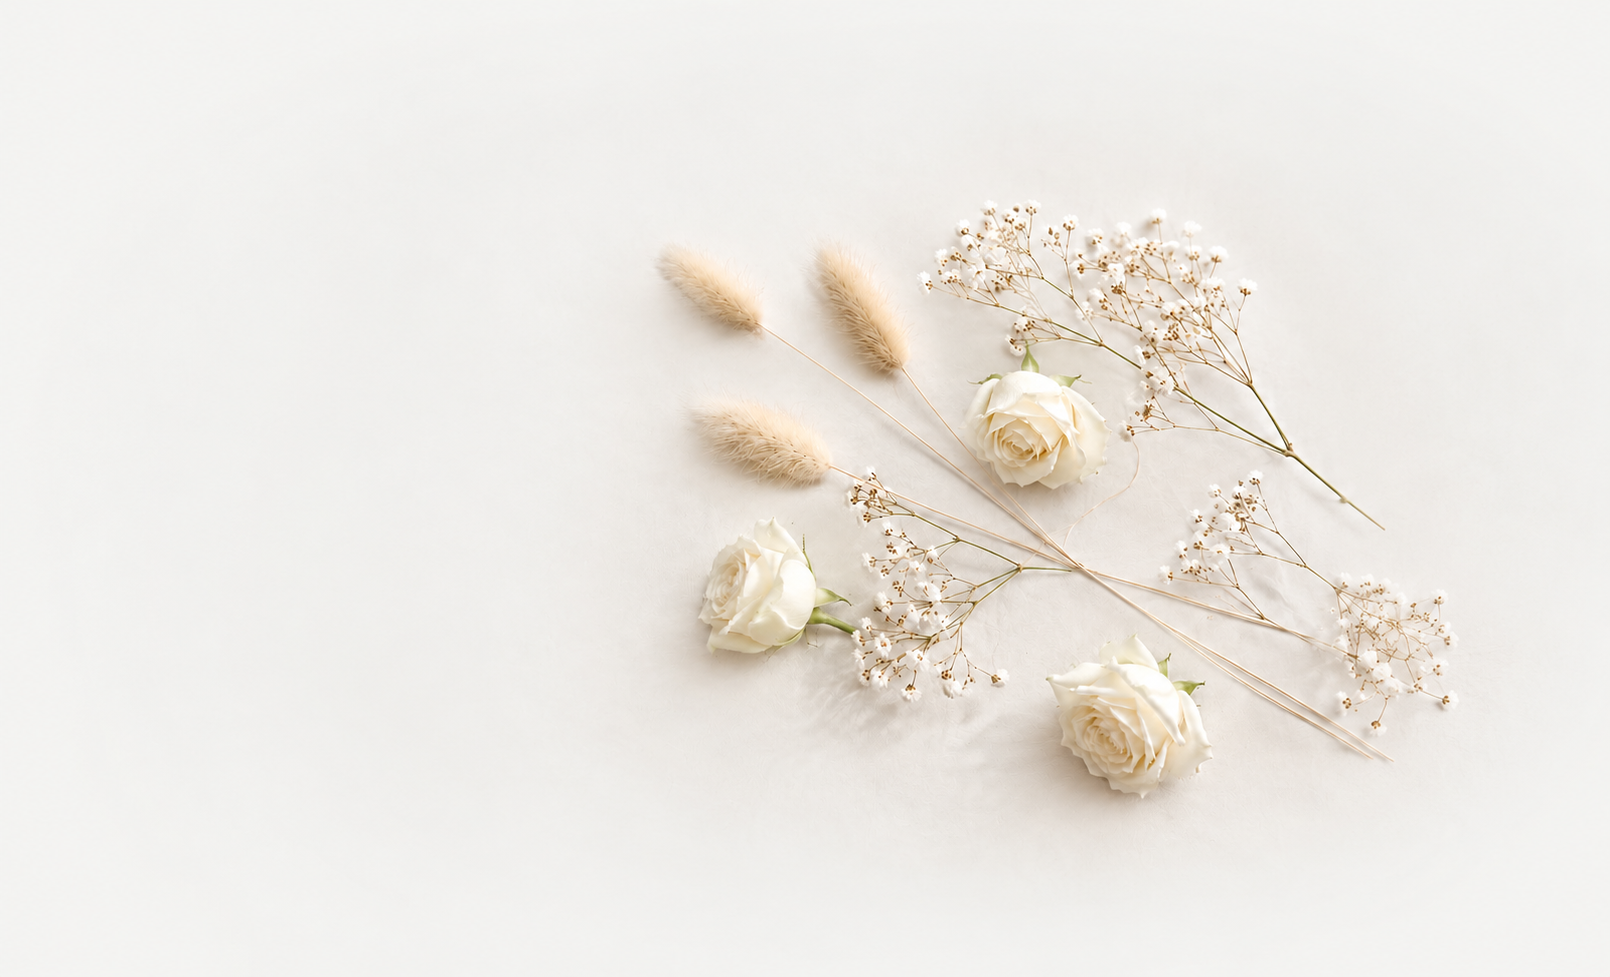
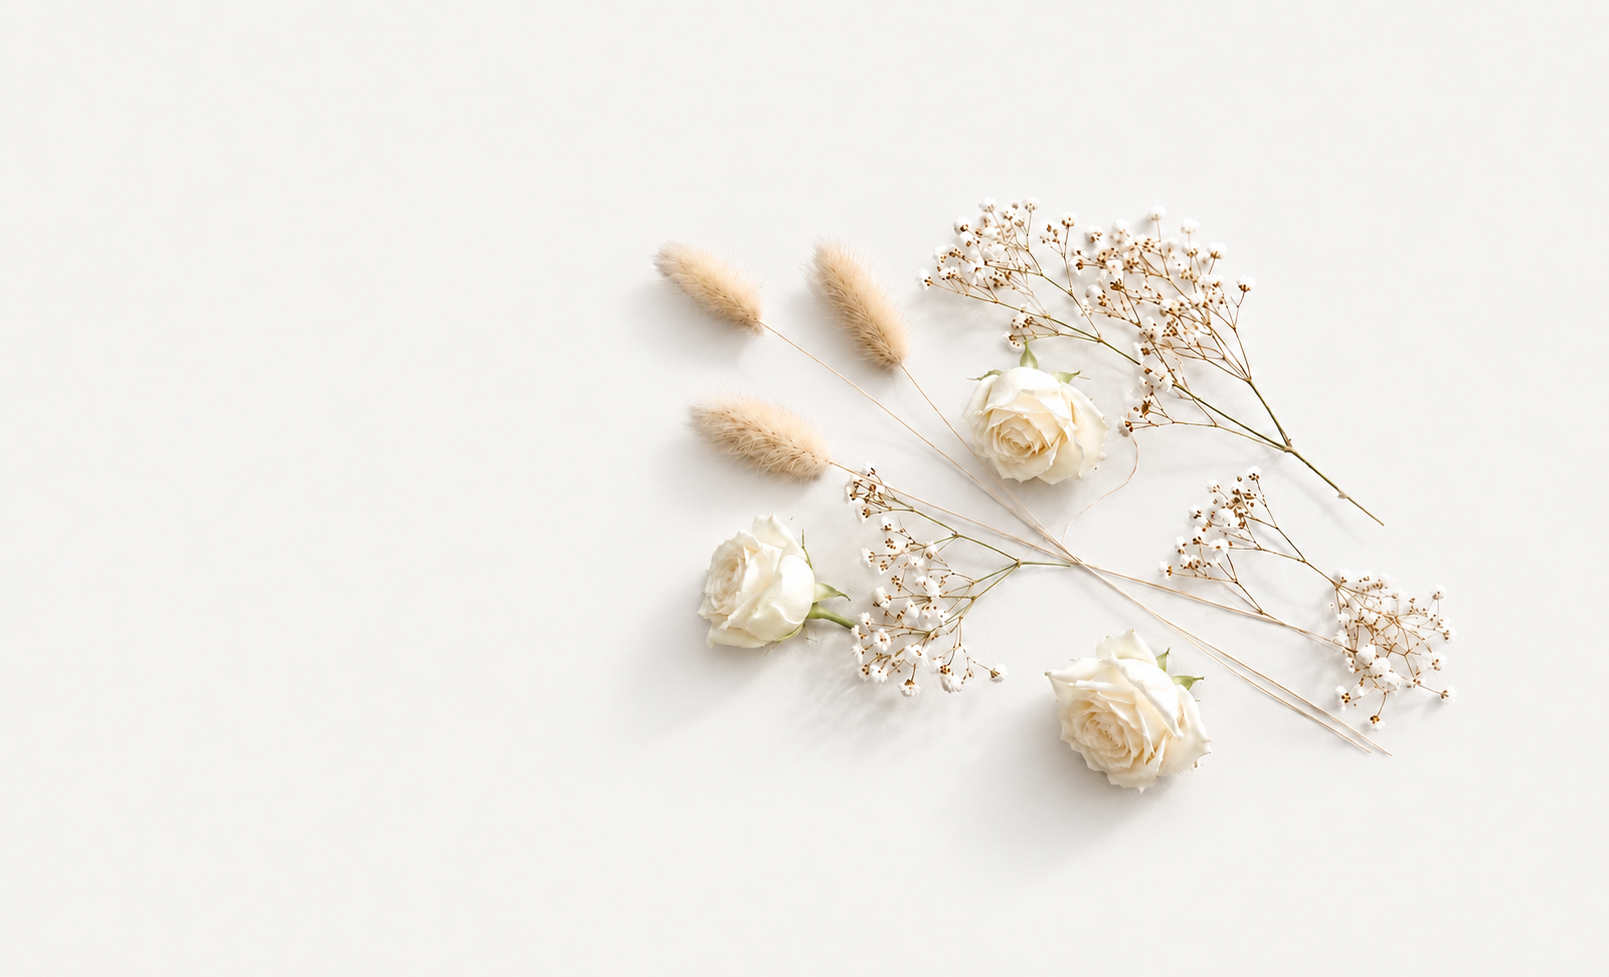
更換首頁插圖為乾燥花與玫瑰花照片
Claude-Session: https://claude.ai/code/session_01NFYPcfHbD3YiFr1Esak2wJ

diff --git a/index.html b/index.html
@@ -308,7 +308,7 @@
     <div class="hero-grid">
       <!-- 這張圖當背景鋪滿整個 hero-grid，文字直接疊在圖片上面（兩層：圖片在下、文字在上），
            沒有遮罩擋住插圖。 -->
-      <img class="hero-bg" src="img/hero-illustration.webp?v=2026-09-03-16" width="640" height="388" alt="" decoding="async" fetchpriority="high" aria-hidden="true">
+      <img class="hero-bg" src="img/hero-illustration.webp?v=2026-09-03-17" width="640" height="389" alt="" decoding="async" fetchpriority="high" aria-hidden="true">
       <ul class="feature-list">
         <li class="feature">
           <span class="feature-icon"><img src="img/feature-tag.webp" width="26" height="26" alt="" decoding="async"></span>
@@ -411,7 +411,7 @@
   // 自動偵測改版，避免手機瀏覽器停留在舊版內容（做法見 CLAUDE.md
   // 「Mobile browsers showing stale cached content」）。
   // 每次更新這個檔案，把版本號改成新的（例如當天日期）。
-  var BUILD_VERSION = "2026-09-03-16";
+  var BUILD_VERSION = "2026-09-03-17";
   var isCheckingUpdate = false;
   // 剛部署完的那幾分鐘，CDN 各節點還沒同步完成，這裡抓到的內容可能忽新忽舊，
   // 若每次偵測到差異就立刻重新整理，會讓頁面在測速工具（如 PageSpeed Insights）
